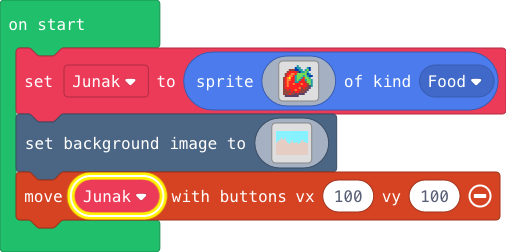
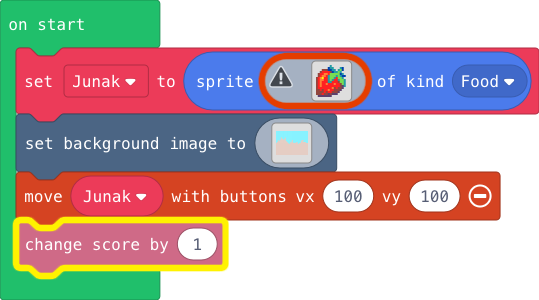
Update pxt.json, main.blocks, main.ts

diff --git a/main.ts b/main.ts
@@ -139,3 +139,4 @@ d d d d d d d d d d d d d d d d d d d d d d d d d d d d d d d d d d d d d d d d 
 d d d d d d d d d d d d d d d d d d d d d d d d d d d d d d d d d d d d d d d d d d d d d d d d d d d d d d d d d d d d d d d d d d d d d d d d d d d d d d d d d d d d d d d d d d d d d d d d d d d d d d d d d d d d d d d d d d d d d d d d d d d d d d d d d d d d d d d d d d d d d d d d d d d d d d d d d d d d d d d d 
 `)
 controller.moveSprite(Junak, 100, 100)
+info.changeScoreBy(1)
